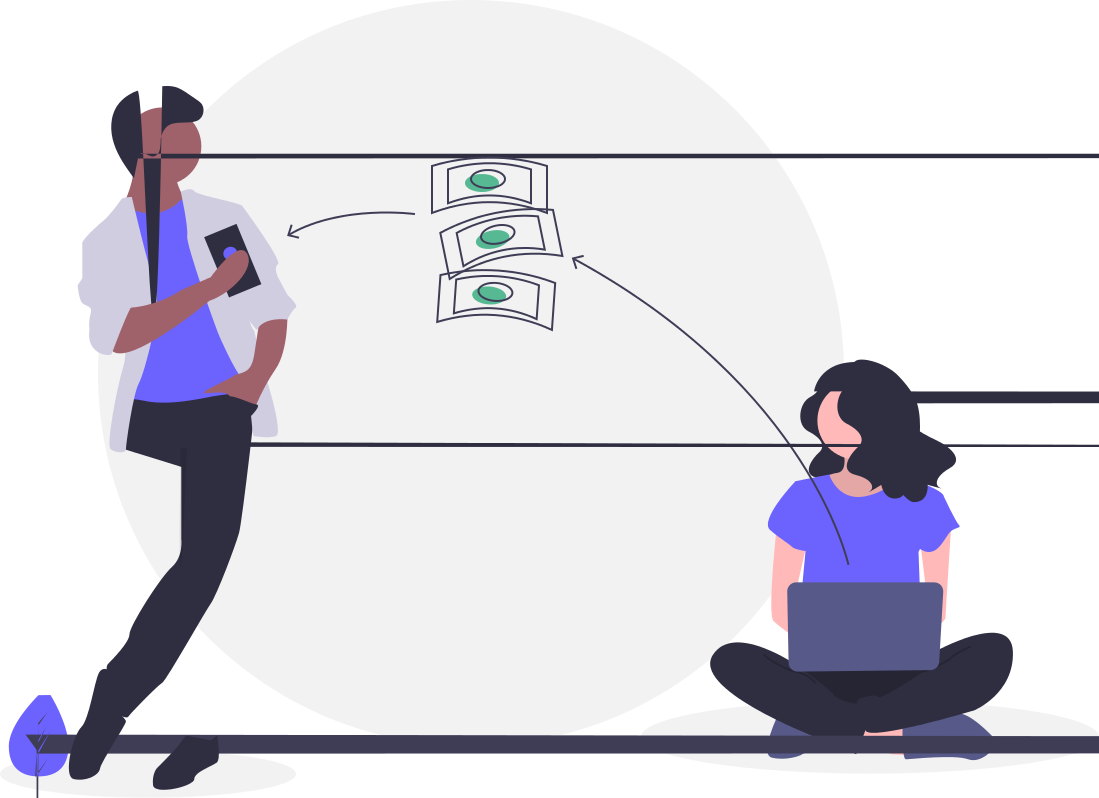
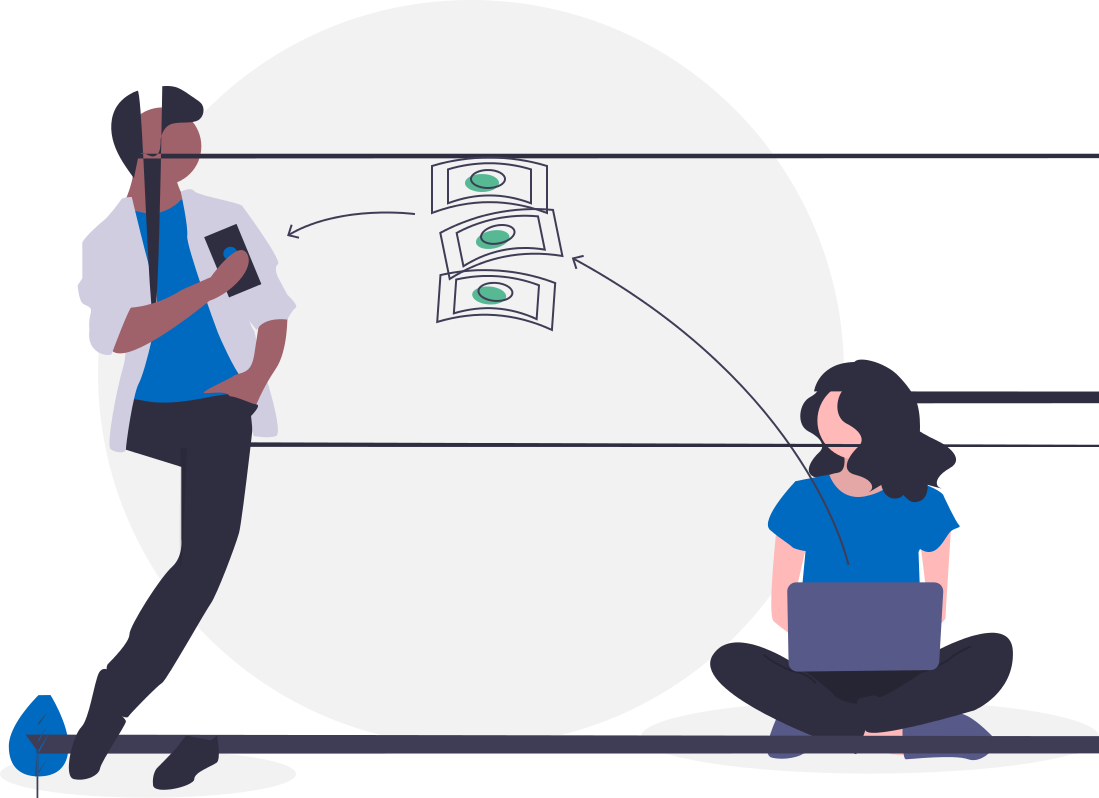
changed illustration color and let button in splash onpress navigate to register

Changed region(s): [[0.6806, 0.6015, 0.8662, 0.7519], [0.1237, 0.2406, 0.2166, 0.5113], [0.0, 0.8722, 0.0619, 0.9925]]

diff --git a/components/Front.js b/components/Front.js
@@ -32,7 +32,12 @@ class Front extends Component {
             </View>
           </ImageBackground>
         </View>
-        <View style={[{flex: 2, flexDirection: 'row'}]}>
+        <View style={[{flex: 1, flexDirection: 'row'}]}>
+          <Image
+            source={require('../assets/images/transfer_money.png')}
+            style={[{width: 200, height: 150}]}></Image>
+        </View>
+        <View style={[{flex: 3, flexDirection: 'row'}]}>
           <View style={[{flex: 4}, w3.Padding, w3.MarginBottom]}>
             <Text>{'\n\n'}</Text>
             <Text style={[{opacity: 0.52}, w3.Bold, w3.XxLarge]}>
@@ -40,12 +45,15 @@ class Front extends Component {
             </Text>
             <Text>{'\n'}</Text>
             <Text style={[{opacity: 0.52}, w3.Medium]}>
-              Buy airtime ,pay your TV Subscription ,pay your bill with
-              payscribe
+              Buy airtime ,data,pay your TV Subscription,pay your Electricity
+              bill with payscribe
             </Text>
           </View>
         </View>
         <Button
+          onPress={() => {
+            this.props.navigation.navigate('Register');
+          }}
           rounded
           style={[
             {marginBottom: 32, width: windowWidth - windowWidth * (20 / 100)},
